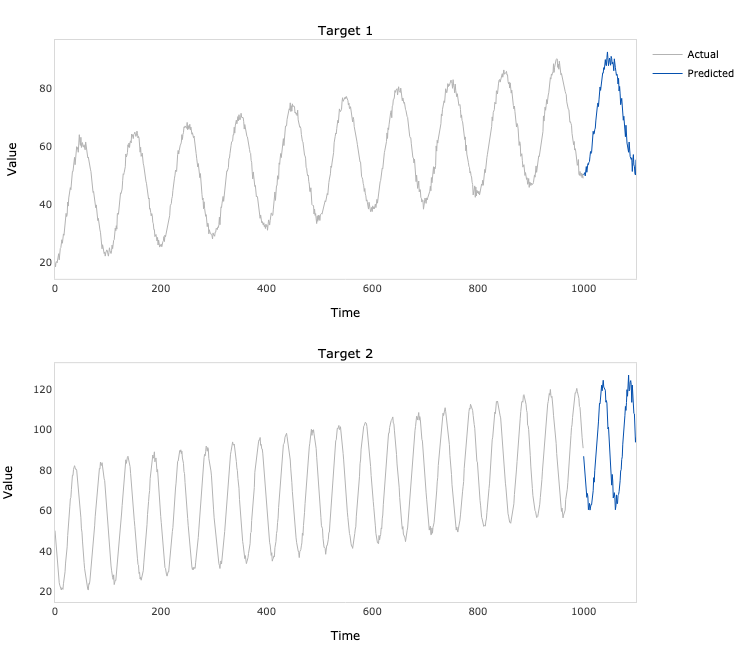
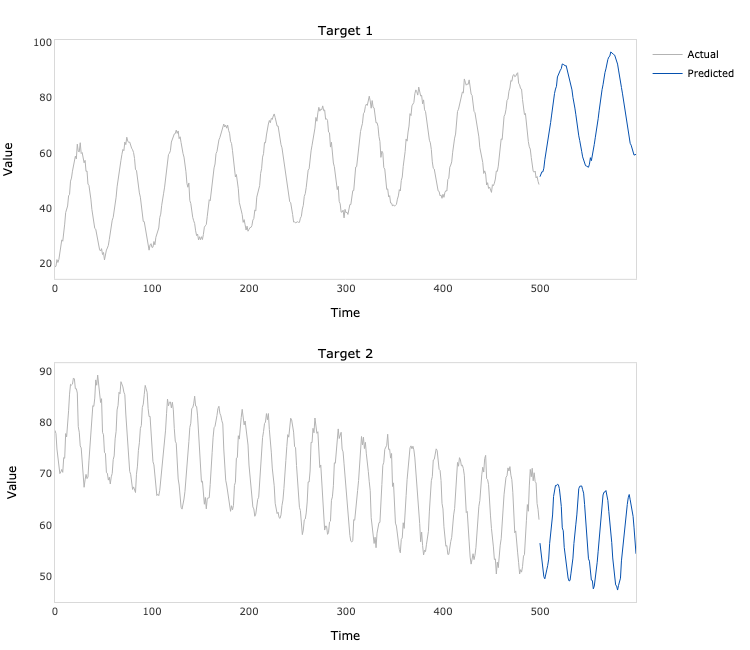
add regularization

diff --git a/lstnet_tensorflow/model.py b/lstnet_tensorflow/model.py
@@ -1,7 +1,8 @@
 import pandas as pd
 import numpy as np
-from tensorflow.keras.layers import Input, Conv2D, GRU, Dense, Dropout, Lambda, Reshape, Flatten, Concatenate, Add
+from tensorflow.keras.layers import Input, Conv1D, GRU, Dense, Dropout, Lambda, Reshape, Flatten, Concatenate, Add
 from tensorflow.keras.optimizers import Adam
+from tensorflow.keras.regularizers import L1, L2, L1L2
 from tensorflow.keras.models import Model
 pd.options.mode.chained_assignment = None
 
@@ -15,13 +16,15 @@ class LSTNet():
                  y,
                  forecast_period,
                  lookback_period,
-                 filters=32,
-                 kernel_size=2,
+                 filters=100,
+                 kernel_size=3,
                  gru_units=100,
-                 skip_gru_units=100,
+                 skip_gru_units=50,
                  skip=1,
                  lags=1,
-                 dropout=0):
+                 dropout=0,
+                 regularizer='L2',
+                 regularization_factor=0.01):
 
         '''
         Implementation of multivariate time series forecasting model introduced in Guokun Lai, Wei-Cheng Chang, Yiming
@@ -58,6 +61,15 @@ class LSTNet():
 
         lags: int.
             Number of autoregressive lags.
+
+        dropout: float.
+            Dropout rate.
+
+        regularizer: str.
+            Regularizer, either 'L1', 'L2' or 'L1L2'.
+
+        regularization_factor: float.
+            Regularization factor.
         '''
 
         if type(y) != np.ndarray:
@@ -75,11 +87,8 @@ class LSTNet():
         if forecast_period < 1:
             raise ValueError('The length of the forecast period should be greater than one.')
 
-        if lookback_period < forecast_period:
-            raise ValueError('The lookback period cannot be shorter than the forecast period.')
-
-        if forecast_period + lookback_period >= y.shape[0]:
-            raise ValueError('The combined length of the forecast and lookback periods cannot exceed the length of the time series.')
+        if lookback_period < 1:
+            raise ValueError('The length of the lookback period should be greater than one.')
 
         if skip > lookback_period:
             raise ValueError('The number of skipped hidden cells cannot be greater than the number of input timesteps.')
@@ -93,7 +102,7 @@ class LSTNet():
         self.y_min = y_min
         self.y_max = y_max
 
-        # Extract the input and output sequences.
+        # Extract the input sequences and output values.
         self.X, self.Y = get_training_sequences(y, lookback_period)
 
         # Save the inputs.
@@ -113,7 +122,9 @@ class LSTNet():
             skip_gru_units,
             skip,
             lags,
-            dropout)
+            dropout,
+            regularizer,
+            regularization_factor)
 
     def fit(self,
             loss='mse',
@@ -224,8 +235,7 @@ class LSTNet():
         # Generate the multi-step forecasts.
         x_pred = self.X[-1:, :, :]   # Last observed input sequence.
         y_pred = self.Y[-1:, :]      # Last observed target value.
-
-        y_future = []
+        y_future = []                # Future target values.
 
         for i in range(self.n_forecast):
 
@@ -297,32 +307,101 @@ def build_fn(n_targets,
              skip_gru_units,
              skip,
              lags,
-             dropout):
+             dropout,
+             regularizer,
+             regularization_factor):
+
+    '''
+    Build the model graph, see Section 3 in the LSTNet paper.
+
+    Parameters:
+    __________________________________
+    n_targets: int.
+        Number of time series.
+
+    n_lookback: int
+        Number of past time steps to use as input.
+
+    filters: int.
+        Number of filters (or channels) of the convolutional layer.
+
+    kernel_size: int.
+        Kernel size of the convolutional layer.
+
+    gru_units: list.
+        Hidden units of GRU layer.
+
+    skip_gru_units: list.
+        Hidden units of Skip GRU layer.
+
+    skip: int.
+        Number of skipped hidden cells in the Skip GRU layer.
+
+    lags: int.
+        Number of autoregressive lags.
+
+    dropout: float.
+        Dropout rate.
+
+    regularizer: str.
+        Regularizer, either 'L1', 'L2' or 'L1L2'.
+
+    regularization_factor: float.
+        Regularization factor.
+    '''
 
     # Inputs.
     x = Input(shape=(n_lookback, n_targets))
 
-    # Convolutional component.
-    c = Reshape(target_shape=(n_lookback, n_targets, 1))(x)
-    c = Conv2D(filters=filters, kernel_size=(kernel_size, n_targets))(c)
+    # Convolutional component, see Section 3.2 of the LSTNet paper.
+    c = Conv1D(filters=filters, kernel_size=kernel_size, activation='relu')(x)
     c = Dropout(rate=dropout)(c)
-    c = Lambda(function=lambda x: x[:, :, 0, :])(c)
 
-    # Recurrent component.
+    # Recurrent component, see Section 3.3 of the LSTNet paper.
     r = GRU(units=gru_units, activation='relu')(c)
     r = Dropout(rate=dropout)(r)
+
+    # Recurrent skip-component, see Section 3.4 of the LSTNet paper.
     s = SkipGRU(units=skip_gru_units, activation='relu', return_sequences=True)(c)
+    s = Dropout(rate=dropout)(s)
     s = Lambda(function=lambda x: x[:, - skip:, :])(s)
     s = Reshape(target_shape=(s.shape[1] * s.shape[2],))(s)
     d = Concatenate(axis=1)([r, s])
-    d = Dense(units=n_targets)(d)
+    d = Dense(units=n_targets, kernel_regularizer=kernel_regularizer(regularizer, regularization_factor))(d)
 
-    # Autoregressive component.
+    # Autoregressive component, see Section 3.6 of the LSTNet paper.
     l = Lambda(function=lambda x: x[:, - lags:, :])(x)
     l = Flatten()(l)
-    l = Dense(units=n_targets)(l)
+    l = Dense(units=n_targets, kernel_regularizer=kernel_regularizer(regularizer, regularization_factor))(l)
 
     # Outputs.
     y = Add()([d, l])
 
     return Model(x, y)
+
+
+def kernel_regularizer(regularizer, regularization_factor):
+
+    '''
+    Define the kernel regularizer.
+
+    Parameters:
+    __________________________________
+    regularizer: str.
+        Regularizer, either 'L1', 'L2' or 'L1L2'.
+
+    regularization_factor: float.
+        Regularization factor.
+    '''
+
+    if regularizer == 'L1':
+        return L1(l1=regularization_factor)
+
+    elif regularizer == 'L2':
+        return L2(l2=regularization_factor)
+
+    elif regularizer == 'L1L2':
+        return L1L2(l1=regularization_factor, l2=regularization_factor)
+
+    else:
+        raise ValueError('Undefined regularizer {}.'.format(regularizer))

diff --git a/lstnet_tensorflow/components.py b/lstnet_tensorflow/components.py
@@ -12,6 +12,8 @@ class SkipGRU(Layer):
                  **kwargs):
 
         '''
+        Recurrent-skip layer, see Section 3.4 in the LSTNet paper.
+        
         Parameters:
         __________________________________
         units: int
@@ -58,16 +60,20 @@ class SkipGRU(Layer):
         Parameters:
         __________________________________
         inputs: tf.Tensor
-            Layer inputs, 2-dimensional tensor with shape (samples, features).
+            Layer inputs, 2-dimensional tensor with shape (n_samples, filters) where n_samples is the batch size
+            and filters is the number of channels of the convolutional layer.
 
         Returns:
         __________________________________
         outputs: tf.Tensor
-            Layer outputs, 2-dimensional tensor with shape (samples, units) if return_sequences == False,
-            3-dimensional tensor with shape (samples, timesteps, units) if return_sequences == True.
+            Layer outputs, 2-dimensional tensor with shape (n_samples, units) if return_sequences == False,
+            3-dimensional tensor with shape (n_samples, n_lookback, units) if return_sequences == True where
+            n_samples is the batch size, n_lookback is the number of past time steps used as input and units
+            is the number of hidden units of the GRU cell.
 
         states: tf.Tensor
-            Hidden states, 2-dimensional tensor with shape (samples, units).
+            Hidden states, 2-dimensional tensor with shape (n_samples, units) where n_samples is the batch size
+            and units is the number of hidden units of the GRU cell.
         '''
 
         outputs = tf.TensorArray(

diff --git a/lstnet_tensorflow/utils.py b/lstnet_tensorflow/utils.py
@@ -3,14 +3,14 @@ import numpy as np
 def get_training_sequences(y, n_lookback):
 
     '''
-    Split the time series into input and output sequences. These are used for training the model.
-    See Section 3 in the DeepTCN paper.
+    Split the time series into input sequences and output values. These are used for training the model.
+    See Sections 3.1 and 3.8 in the LSTNet paper.
 
     Parameters:
     __________________________________
     y: np.array
-        Time series, array with shape (n_samples, n_targets) where n_samples is the length of the time series
-        and n_targets is the number of time series.
+        Time series, array with shape (n_samples, n_targets) where n_samples is the length of the time
+        series and n_targets is the number of time series.
 
     n_lookback: int
         The number of past time steps used as input.
@@ -21,7 +21,7 @@ def get_training_sequences(y, n_lookback):
         Input sequences, array of with shape (n_samples - n_lookback, n_lookback, n_targets).
 
     Y: np.array.
-        Output array, array of with shape (n_samples - n_lookback, n_targets).
+        Output values, array of with shape (n_samples - n_lookback, n_targets).
     '''
 
     X = np.zeros((y.shape[0], n_lookback, y.shape[1]))
@@ -36,3 +36,4 @@ def get_training_sequences(y, n_lookback):
     Y = Y[n_lookback:, :]
 
     return X, Y
+

diff --git a/example/example.py b/example/example.py
@@ -2,11 +2,11 @@ import numpy as np
 from lstnet_tensorflow.model import LSTNet
 
 # Generate two time series
-N = 1000
+N = 500
 t = np.linspace(0, 1, N)
 e = np.random.multivariate_normal(mean=[0, 0], cov=[[1, 0.25], [0.25, 1]], size=N)
 a = 40 + 30 * t + 20 * np.cos(2 * np.pi * (10 * t - 0.5)) + e[:, 0]
-b = 50 + 40 * t + 30 * np.sin(2 * np.pi * (20 * t - 0.5)) + e[:, 1]
+b = 80 - 20 * t + 10 * np.sin(2 * np.pi * (20 * t - 0.5)) + e[:, 1]
 y = np.hstack([a.reshape(- 1, 1), b.reshape(- 1, 1)])
 
 # Fit the model
@@ -16,14 +16,14 @@ model = LSTNet(
     lookback_period=300,
     kernel_size=3,
     filters=4,
-    gru_units=5,
-    skip_gru_units=6,
+    gru_units=4,
+    skip_gru_units=3,
     skip=50,
     lags=100,
-    dropout=0.1
 )
 
 model.fit(
+    loss='mse',
     learning_rate=0.01,
     batch_size=64,
     epochs=50,
@@ -31,7 +31,7 @@ model.fit(
 )
 
 # Plot the in-sample predictions
-predictions = model.predict(index=900)
+predictions = model.predict(index=400)
 fig = model.plot_predictions()
 fig.write_image('predictions.png', width=750, height=650)
 

diff --git a/README.MD b/README.MD
@@ -18,11 +18,11 @@ import numpy as np
 from lstnet_tensorflow.model import LSTNet
 
 # Generate two time series
-N = 1000
+N = 500
 t = np.linspace(0, 1, N)
 e = np.random.multivariate_normal(mean=[0, 0], cov=[[1, 0.25], [0.25, 1]], size=N)
 a = 40 + 30 * t + 20 * np.cos(2 * np.pi * (10 * t - 0.5)) + e[:, 0]
-b = 50 + 40 * t + 30 * np.sin(2 * np.pi * (20 * t - 0.5)) + e[:, 1]
+b = 80 - 20 * t + 10 * np.sin(2 * np.pi * (20 * t - 0.5)) + e[:, 1]
 y = np.hstack([a.reshape(- 1, 1), b.reshape(- 1, 1)])
 
 # Fit the model
@@ -32,14 +32,14 @@ model = LSTNet(
     lookback_period=300,
     kernel_size=3,
     filters=4,
-    gru_units=5,
-    skip_gru_units=6,
+    gru_units=4,
+    skip_gru_units=3,
     skip=50,
     lags=100,
-    dropout=0.1
 )
 
 model.fit(
+    loss='mse',
     learning_rate=0.01,
     batch_size=64,
     epochs=50,
@@ -48,7 +48,7 @@ model.fit(
 ```
 ```python
 # Plot the in-sample predictions
-predictions = model.predict(index=900)
+predictions = model.predict(index=400)
 fig = model.plot_predictions()
 fig.write_image('predictions.png', width=750, height=650)
 ```
